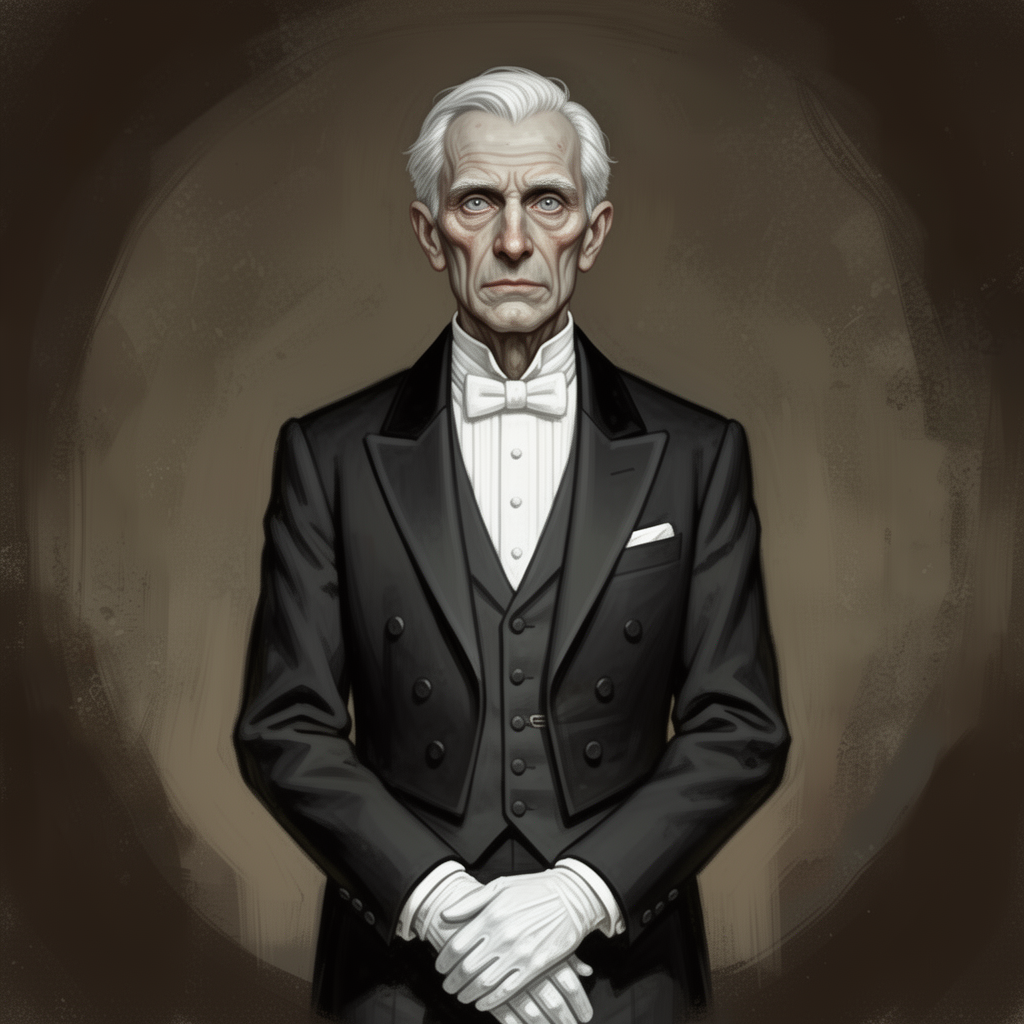
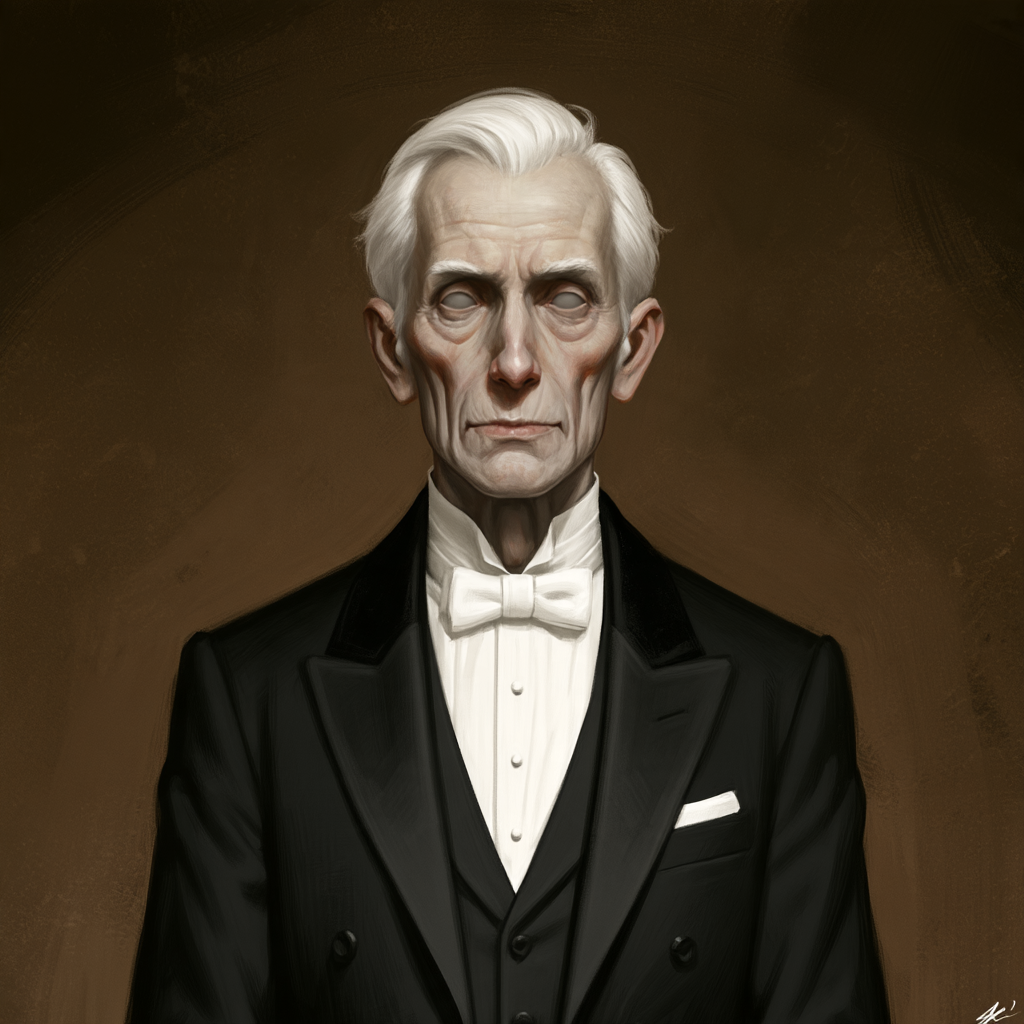
Complete the Aldous set, and strip the living-flesh defence from his ref shots
Aldous kept rendering as a skeleton from text, so his spec grew defences: "full
soft flesh", "intact lips and nose", "living skin", the word "living" in all
three framings, and a negative of skeleton, corpse, undead. That was right while
the model was inventing him from words and wrong the moment an anchor existed.

A ref shot's framing is its entire prompt. With the face already carried by the
attached image, the whole instruction became "living man, fully fleshed" and
Midjourney obliged with an ordinary healthy butler. The negative worked the same
way in reverse: suppressing undead and corpse strips the deathliness that makes
him work.

The framings are now plain camera directions and the negative is gone. What
makes Aldous wrong is the stillness and the empty courtesy, not a reminder that
he has skin.

Anchor is the local FLUX render; the portrait and the door scene are Midjourney
with that anchor attached. Recorded in the render block.

The image-prompts skill gains the general rule: a defence protects the shot that
has nothing else to go on, so it belongs to a text-to-image anchor and nowhere
else. Once a reference is doing the work it is an instruction to undo the thing
you wanted.

No negatives are used sparingly as a rule now: both specs that were given one
had it removed again within the hour, each time because the flag was fighting
something the prompt wanted. The skill says the default is to have none.

diff --git a/.claude/skills/image-prompts/SKILL.md b/.claude/skills/image-prompts/SKILL.md
@@ -105,23 +105,54 @@ them draw it.
 
 ---
 
-## The `negative` field, and when it backfires
+## The `negative` field: use it almost never
 
-A spec may carry `negative`, which reaches Midjourney as `--no`. Use it for a
-**failure the renders keep repeating**, not as insurance. Aldous earned his: he
-came back skeletal, so `skeleton, skull, exposed bone, corpse` goes in the flag,
-where a prose "not a skeleton" would read as an instruction to draw one.
+A spec may carry `negative`, which reaches Midjourney as `--no`. **The default
+is to have none.** Both specs that were given one had it removed again within
+the hour, each time because the flag was fighting something the prompt wanted.
+Reach for it only when a specific failure has repeated across several renders
+and no positive phrasing has moved it, and expect to delete it once an anchor
+exists.
 
-**`--no` suppresses the concept, not the excess of it.** A list written to curb
-a too-cheerful Harlen (`grin, broad smile, cheerful, jolly`) removed his smile
-altogether, because every one of those entries carries *smile* with it and he
-needed one. The test before adding an entry:
+It is a blunt instrument: `--no` suppresses a **concept**, not the excess of a
+concept, and it cannot tell the difference between the version you hate and the
+version you want.
+
+A list written to curb a too-cheerful Harlen (`grin, broad smile, cheerful,
+jolly`) removed his smile altogether, because every one of those entries carries
+*smile* with it and he needed one. The test before adding an entry:
 
 > If the model took this word completely away, would the image still be right?
 
 If the thing you want is a *small* version of the thing you are excluding, the
 flag is the wrong tool. Say the small version in the prompt and leave `--no`
 empty.
+
+### A defence belongs to the anchor, never to a ref shot
+
+Aldous kept rendering as a skeleton, so his spec grew defences: "full soft
+flesh", "intact lips and nose", "living skin", and the word *living* in all
+three framings. That was correct for text-to-image and **actively wrong once an
+anchor existed.** A ref shot's framing is its entire prompt, so with the face
+already carried by the attached image, the whole instruction became "living man,
+fully fleshed" and Midjourney obliged: an ordinary healthy butler, the uncanny
+gone.
+
+The `--no` went the same way. `skeleton, corpse, undead` was right while the
+model was inventing him from words, and wrong once it was copying a face:
+suppressing *undead* and *corpse* strips the deathliness that makes him work.
+His spec now carries no negative at all.
+
+The rule: **a defence protects the shot that has nothing else to go on.** It
+belongs to a text-to-image anchor and nowhere else. Once an anchor exists and is
+attached, drop the defensive wording from the framings and drop the `negative`
+field. What makes Aldous wrong is the stillness and the empty courtesy, not a
+reminder that he has skin.
+
+Check for this whenever a spec has been fought with. The wording that won the
+text-to-image battle tends to migrate into the framings and the negative, where
+it is dead weight at best and, once a reference is doing the work, a straight
+instruction to undo the thing you wanted.
 
 ---
 
